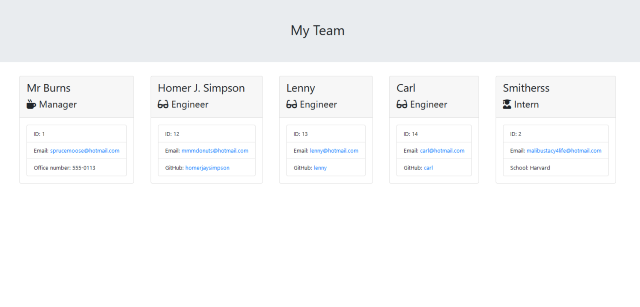
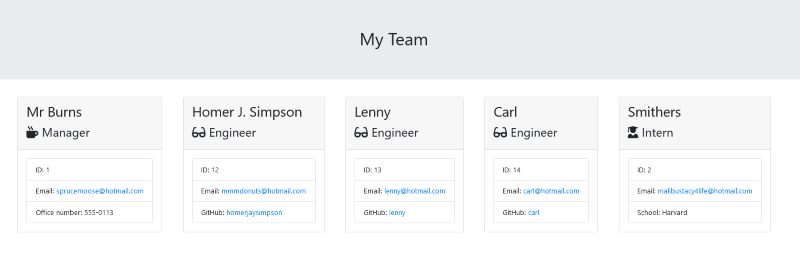
updated screenshots

diff --git a/output/team.html b/output/team.html
@@ -83,7 +83,7 @@
         
         <div class="card employee-card m-4">
     <div class="card-header">
-        <h2 class="card-title">Smitherss</h2>
+        <h2 class="card-title">Smithers</h2>
         <h3 class="card-title"><i class="fas fa-user-graduate mr-2"></i>Intern</h3>
     </div>
     <div class="card-body">
